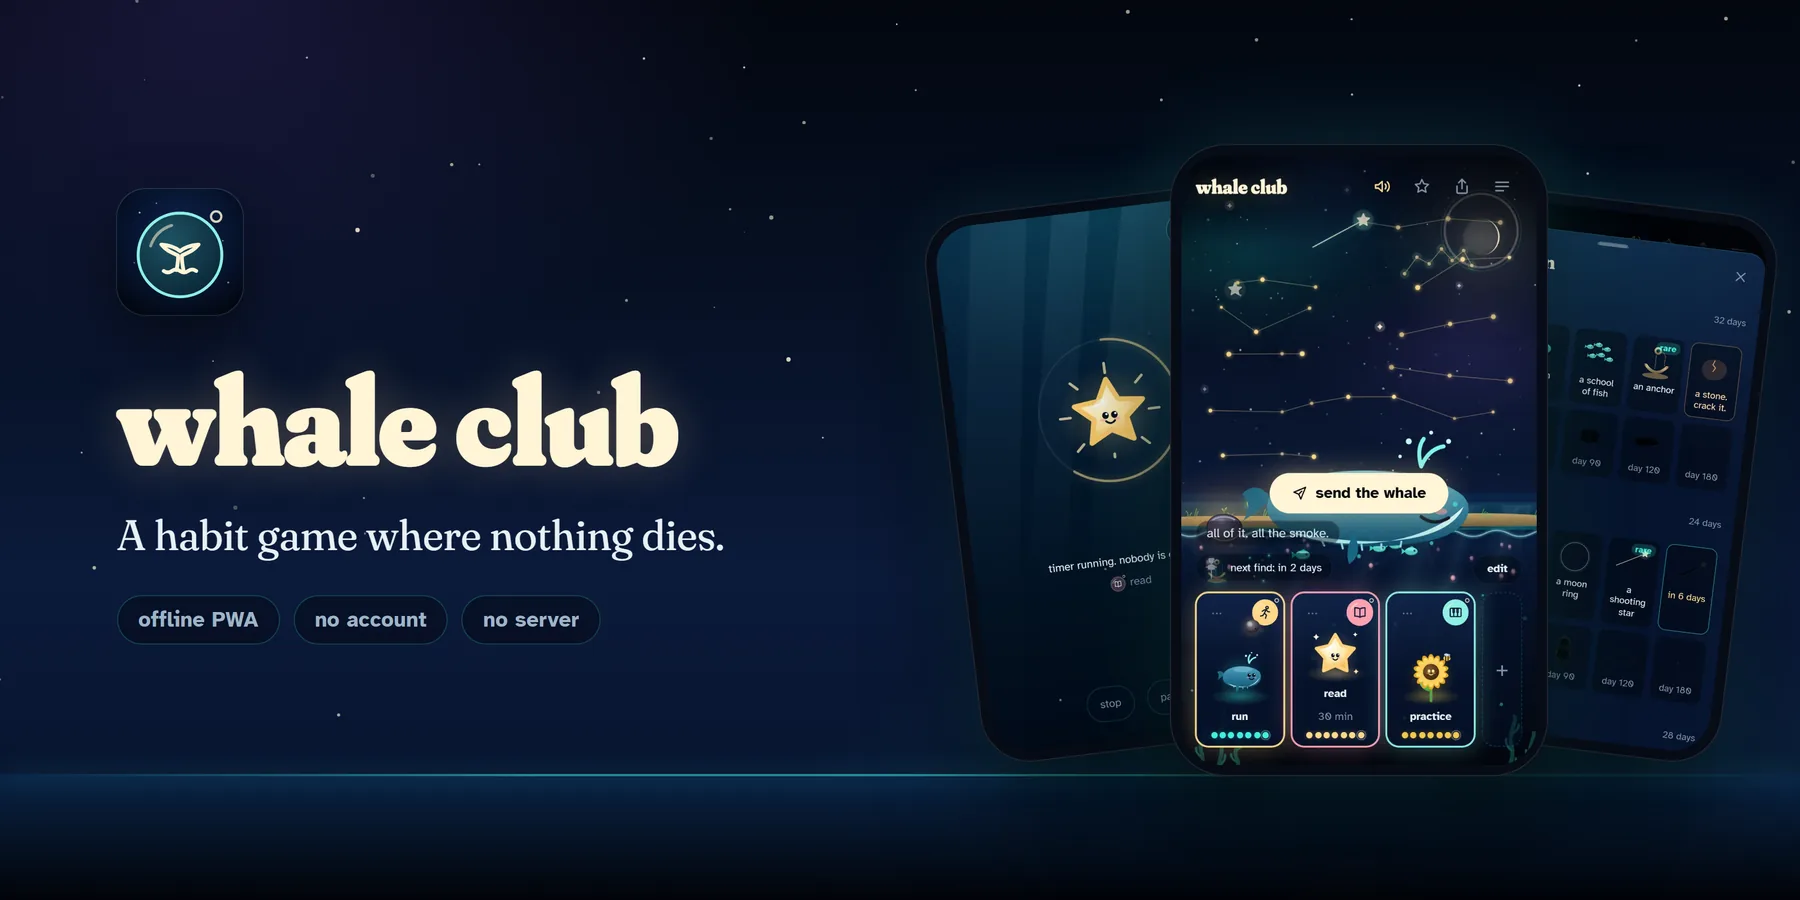
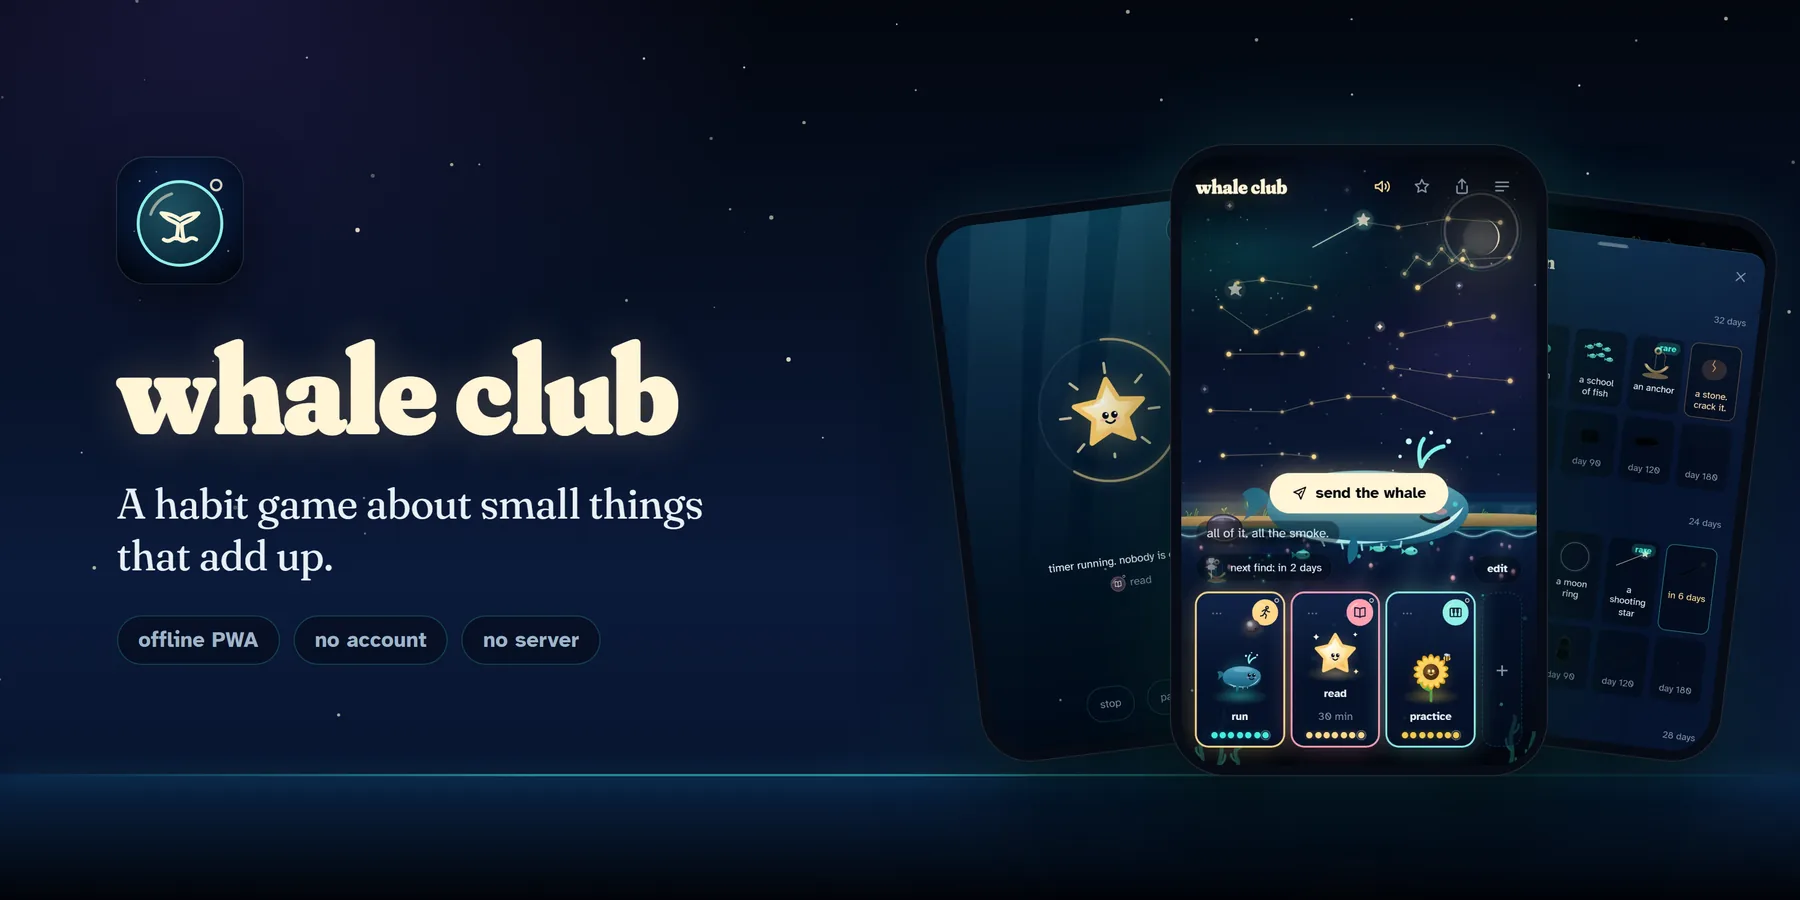
The tagline: a habit game about small things that add up
In the banner, the README, the page description, the package and the
installed app manifest.

Changed region(s): [[0.0622, 0.3733, 0.4044, 0.7467], [0.0622, 0.1867, 0.1244, 0.3422]]

diff --git a/index.html b/index.html
@@ -8,7 +8,10 @@
     />
     <meta name="theme-color" content="#020409" />
     <meta name="color-scheme" content="dark" />
-    <meta name="description" content="A habit game where nothing dies. Show up, the scene fills." />
+    <meta
+      name="description"
+      content="A habit game about small things that add up. Show up, the scene fills."
+    />
     <meta name="apple-mobile-web-app-capable" content="yes" />
     <meta name="mobile-web-app-capable" content="yes" />
     <meta name="apple-mobile-web-app-status-bar-style" content="black-translucent" />

diff --git a/vite.config.ts b/vite.config.ts
@@ -31,7 +31,7 @@ export default defineConfig({
       manifest: {
         name: 'Whale Club',
         short_name: 'Whale Club',
-        description: 'A habit game where nothing dies.',
+        description: 'A habit game about small things that add up.',
         start_url: '/whale-club/',
         scope: '/whale-club/',
         display: 'standalone',

diff --git a/README.md b/README.md
@@ -1,5 +1,5 @@
 <p align="center">
-  <a href="https://dovjonikas.github.io/whale-club/"><img src="docs/screenshots/hero.webp" width="100%" alt="Whale Club: the app icon, a whale's tail in a glass bubble; the name; the line a habit game where nothing dies; and three phones: a lock-in session in deep water, the night sea with the whale surfacing over the horizon, and the collection of finds"></a>
+  <a href="https://dovjonikas.github.io/whale-club/"><img src="docs/screenshots/hero.webp" width="100%" alt="Whale Club: the app icon, a whale's tail in a glass bubble; the name; the line a habit game about small things that add up; and three phones: a lock-in session in deep water, the night sea with the whale surfacing over the horizon, and the collection of finds"></a>
 </p>
 
 <p align="center"><strong>Pick a few small things. Do them. Watch a night sea fill up.</strong></p>
